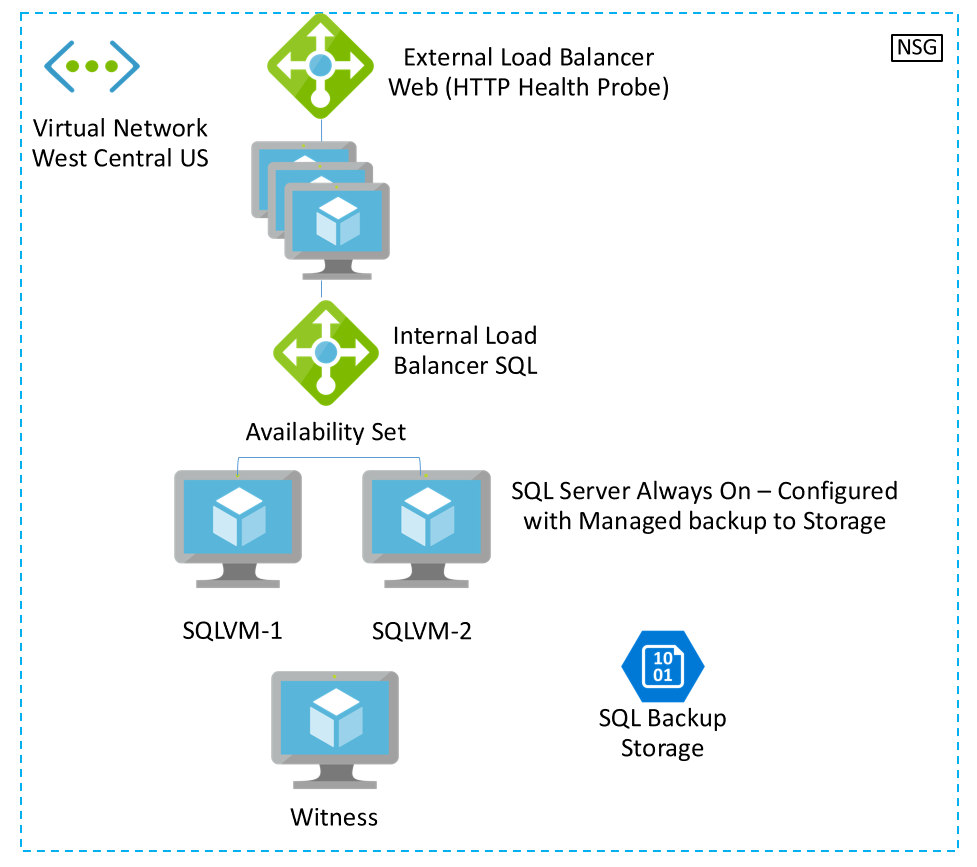
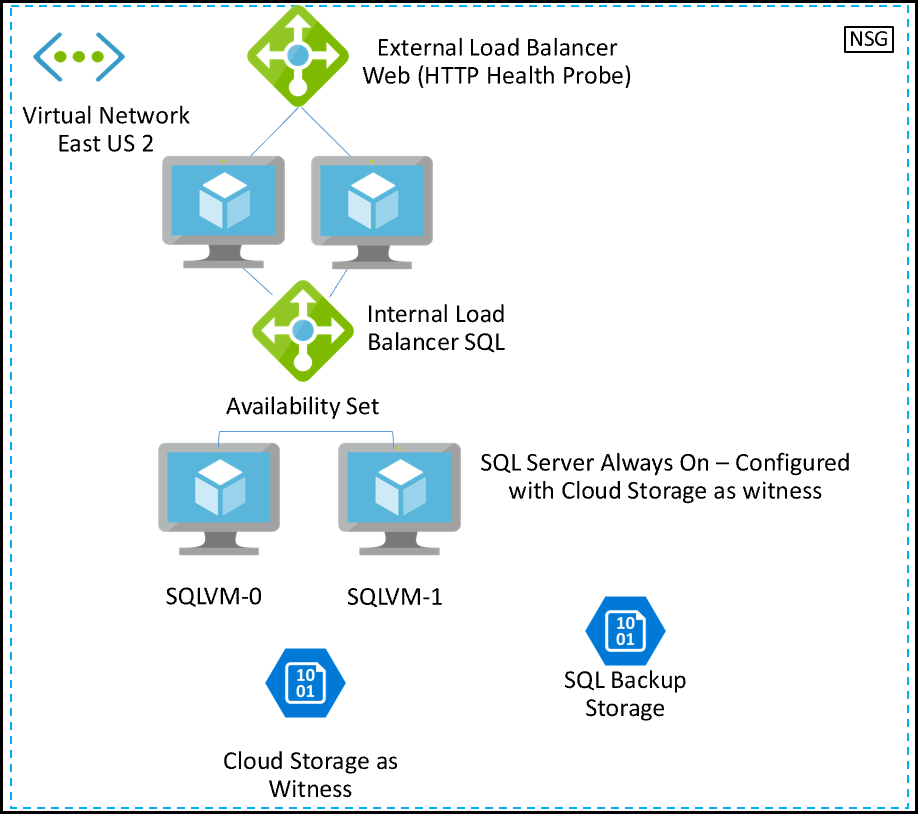
updated lab guide

Changed region(s): [[0.0, 0.0, 1.0, 1.0], [0.5185, 0.5528, 0.9455, 0.6143], [0.61, 0.7064, 0.7625, 0.8907]]

diff --git a/Hands-on lab/HOL step-by step - Building a resilient IaaS architecture.md b/Hands-on lab/HOL step-by step - Building a resilient IaaS architecture.md
@@ -502,9 +502,11 @@ In this task, you will deploy a SQL Always-On cluster using an ARM template that
    
 2.  Specify the following information
    
-    Resource group:  **CloudShopRG** 
-    Location: **East US 2**
-    Subnet Id: Go to **resources.azure.com** then go to Subscription - Resource Group - ContosoRG - Providers - Microsoft.Network - VirtualNetworks - **Find subnet id for Data Subnet**. Copy the full subnet ID in between the **" "** quote.
+    Resource group:**CloudShopRG** 
+    
+    Location: **East US 2** 
+    
+    **Subnet Id**: Go to **resources.azure.com** then go to Subscription - Resource Group - ContosoRG - Providers - Microsoft.Network - VirtualNetworks - **Find subnet id for Data Subnet**. Copy the full subnet ID in between the **" "** quote.
 
     Admin username **demouser**
     Admin Password **demo@pass123**
@@ -520,7 +522,9 @@ In this task, you will deploy a SQL Always-On cluster using an ARM template that
 
 4.  Wait until the template deployment is complete before continuing. 
 
-    >**Note**: The deployment may take up to 20 minutes.
+    >**Note**: The deployment may take up to 30 minutes.
+
+    ![Screenshot of the successful deployment of sql tier.](images/Hands-onlabstep-bystep-BuildingaresilientIaaSarchitectureimages/media/sqltierdeployment.png "Template deployment")
 
 5.  Open a remote desktop connection to the **SQL0** virtual machine you created in the previous task, and login using the **contoso\\demouser** account with the password **demo@pass123**.
 
@@ -570,12 +574,14 @@ In this task, you will deploy a SQL Always-On cluster using an ARM template that
 
 18. Use the Powershell or Powershell ISE to deploy the cloudshop database by running the command below. Deploy-cloudshop-db.ps1 script is available in this github repository. The script will deploy the cloudshop database to the database servers. 
     
+    **Note**: You need to pass the parameters below with the powershell script. If you download the script from the url below in your local desktop or any drive, just copy and paste in your powershell window.
+    
  https://github.com/opsgility/cw-building-resilient-iaas-architecture/tree/master/script-extensions 
 
-    ````
+    
     PS C:\Users\demouser.SQL0\Desktop> .\deploy-cloudshop-db.ps1  -user "demouser" -password "demo@pass123" -dbsource "https://cloudworkshop.blob.core.windows.net/building-resilient-iaas-architecture/AdventureWorks2012.bak" -sqlConfigUrl "https://raw.githubusercontent.com/opsgility/cw-building-resilient-iaas-architecture/master/script-extensions/configure-sql.ps1"
 
-    ````
+    
 
 19. Create another database from using SQL Server management studio. In the object explorer, expand SQL1 - Database - Right click Databases - New Database - DatabaseName **Adventureworks01** - Select Ok.
 
@@ -592,13 +598,12 @@ In this task, you will deploy a SQL Always-On cluster using an ARM template that
 
 ### Task 2: Build a scalable and resilient web tier
 
-In this task, you will deploy a VM scale set that can automatically scale up or down based on the CPU criteria. 
+In this task, you will deploy a highly available web servers. 
 
 1. Navigate to the URL https://github.com/opsgility/cw-building-resilient-iaas-architecture and click to **Deploy to Azure** on the sample for building a resilient IaaS Architecture - Deploy Web Tier.
    
-2. In the Azure Portal **Create a resource** - Type Template Deployment in the search field and select the Template Deployment - Build your own Template in the editor - Load File - upload the recently downloaded CloudShopWeb-deploy.json file.
-
-3.  Specify the existing resource group **CloudShopRG**. 
+2.  Specify the existing resource group **CloudShopRG**. 
+3.  **Subnet ID**: Go to **resources.azure.com** then go to Subscription - Resource Group - ContosoRG - Providers - Microsoft.Network - VirtualNetworks - **Find subnet id for App Subnet**. Copy the full subnet ID in between the **" "** quote.
 
 4.  Check the **I agree to the terms and conditions state above** checkbox on the page and click **Purchase**.
 
